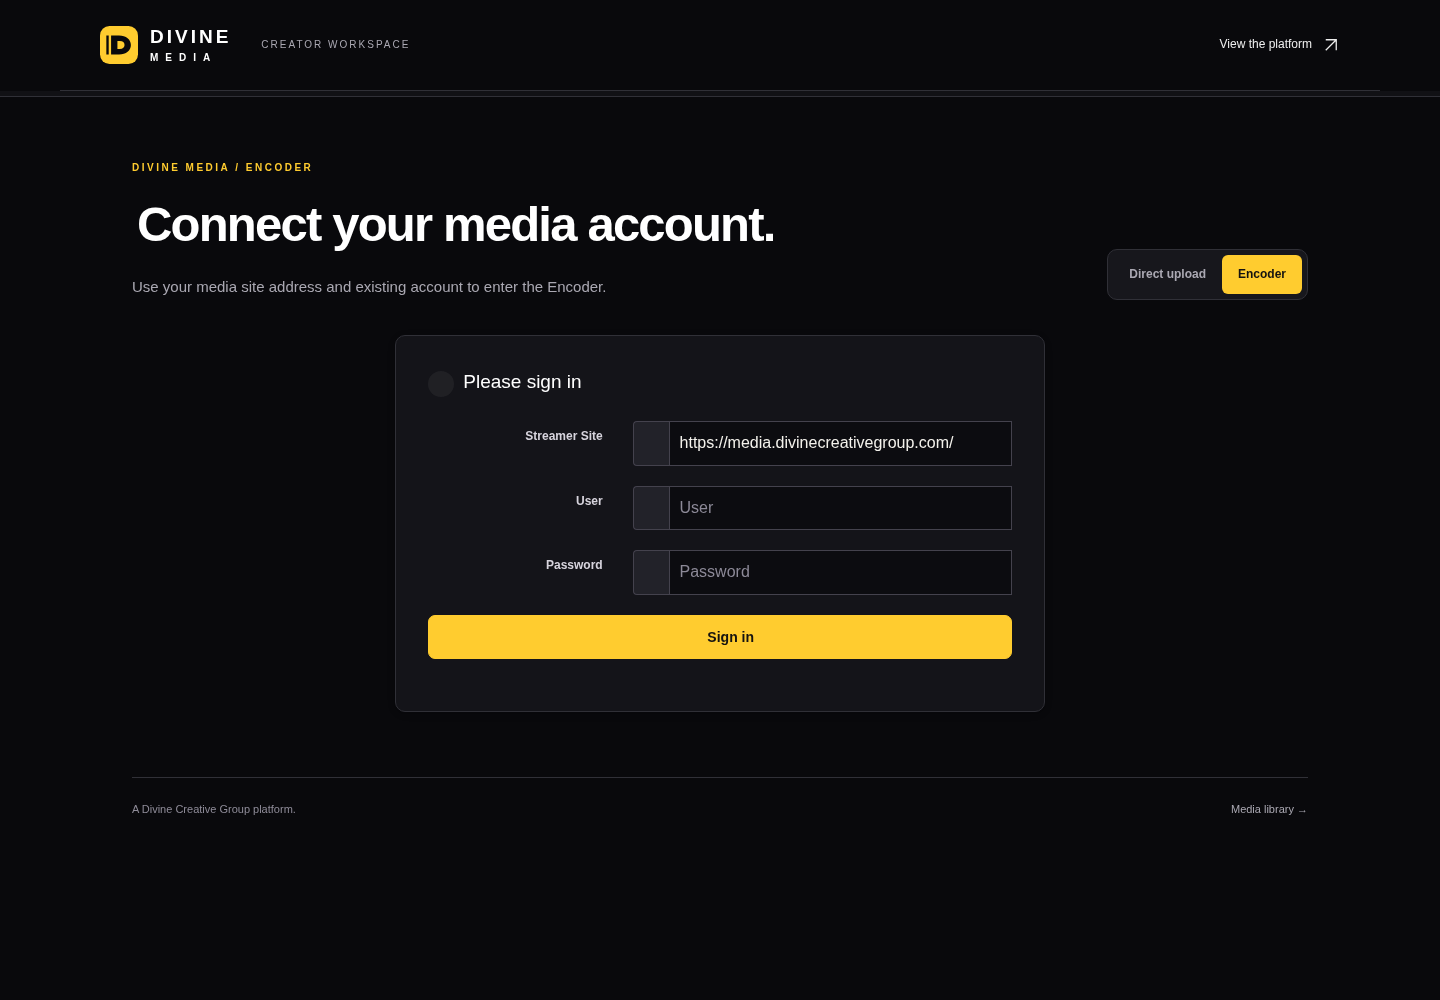
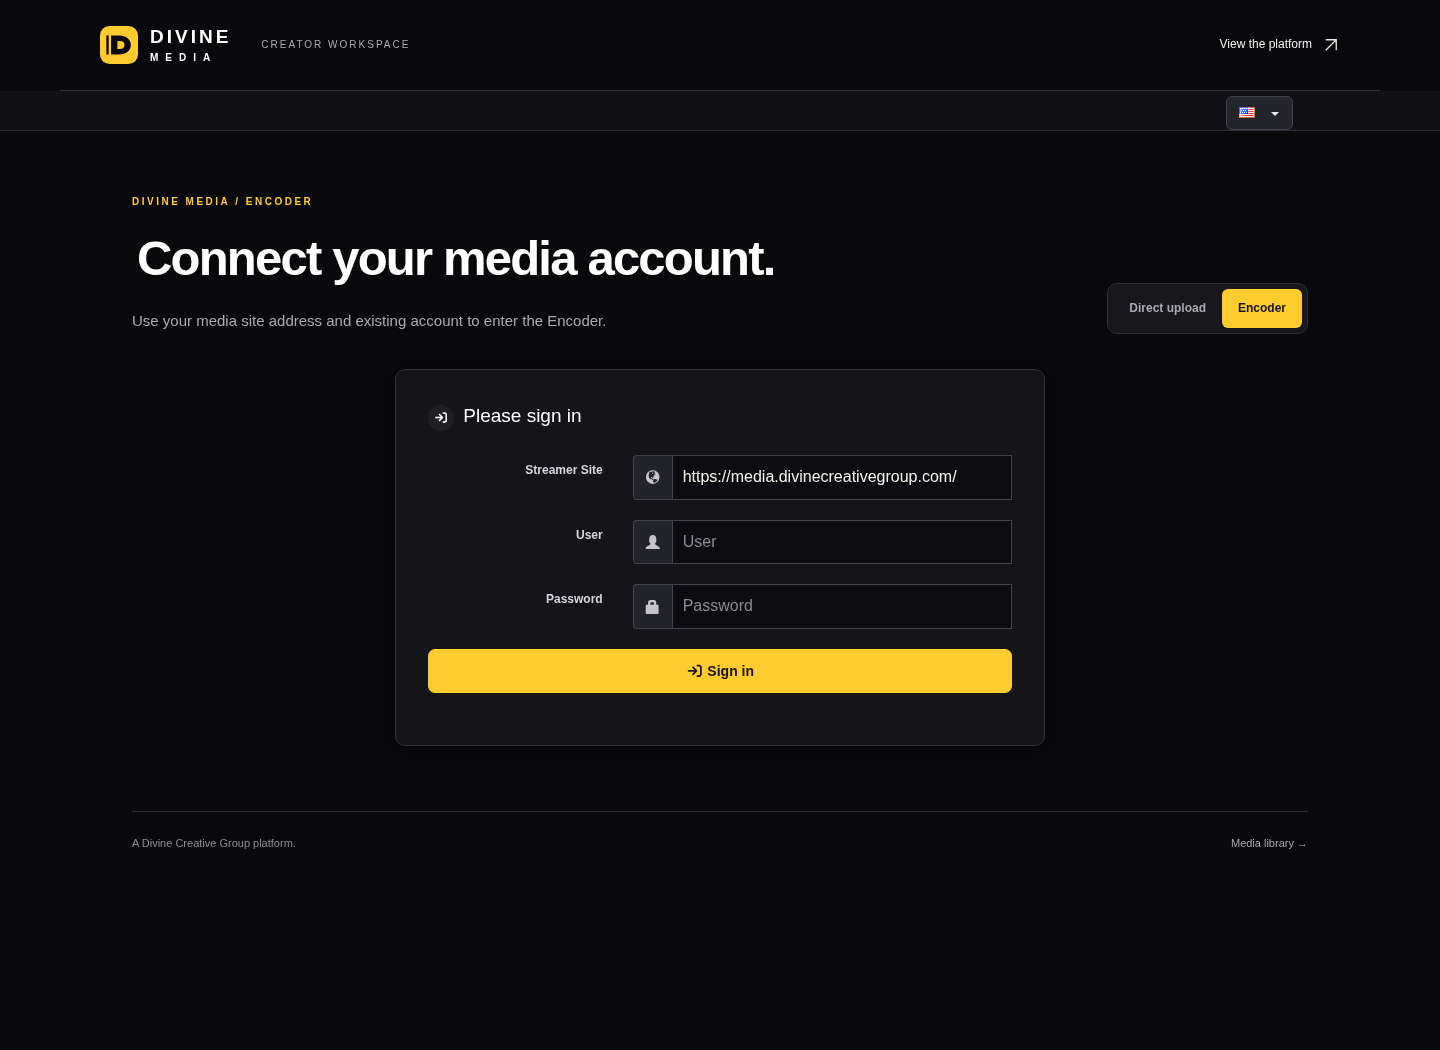
docs: record creator UI deployment and verified previews

diff --git a/docs/DIVINE-MEDIA-CREATOR.md b/docs/DIVINE-MEDIA-CREATOR.md
@@ -33,7 +33,7 @@ Rollback checks installed file hashes and refuses to overwrite later changes. As
 
 ## Design previews
 
-The Encoder preview uses the public connection form with native styles. Direct Upload previews use a representative form fixture pending isolated authenticated rendering. These previews are design evidence, not proof of successful media processing.
+The Encoder preview uses the public connection form with native styles. Direct Upload previews use the sanitized native form rendered by an authenticated creator in the isolated restore, with a representative guidance sidebar. These previews are design evidence, not proof of successful media processing.
 
 | Direct upload | Encoder connection |
 | --- | --- |
@@ -43,3 +43,23 @@ The Encoder preview uses the public connection form with native styles. Direct U
 ## Validation
 
 Local browser checks cover both pages at 1440px and 390px, horizontal overflow, original form identity, retained submit listeners and native input IDs. All network traffic is intercepted; no production upload is submitted. Installer tests cover exact rollback, restrictive umask, source leases and refusal to destroy later changes. The production direct-upload script also passes a browser check with mocked transport: browse triggers the existing input, file addition submits once, progress reaches 50%, cancellation aborts, and failure retains its error state. Actual upload/encoding jobs are excluded from visual validation.
+
+The isolated restored runtime passes PHP lint, the guest Encoder connection form, an authenticated native media uploader, and Encoder upload/settings/tabs rendered with a temporary signed-in fixture. The fixture and test account exist only in the clone, which has an internal network and no processing startup. Handler hashes remain unchanged, rollback/reapply passes, and all scratch containers/network/files are removed. This verifies rendering and installation; it does not verify a real Encoder sign-in or processing job. See [stage evidence](CREATOR-STAGE-VERIFICATION.json).
+
+## Signed-in Encoder preview
+
+The isolated signed-in view uses sanitized server-rendered controls, with account values and executable content removed. It verifies the shared layout at desktop and mobile sizes; production authentication and job submission are not exercised.
+
+![Encoder workspace desktop](previews/creator-encoder-workspace-1440.png)
+
+![Encoder workspace mobile](previews/creator-encoder-workspace-390.png)
+
+## Deployment — 2026-11-07
+
+Live source commit: `61f96e4c30ae30cb8305d01b652b5d65313f2309`, release `0b8df6f2022d`. Installed from the feature branch without merging either the integration or production branch.
+
+Public checks pass for the entrance, login, native library, audio/video filters, embed and Encoder routes. Guests at `/upload` retain the native 302 login redirect. The Encoder connection form and all three public theme assets return 200. Seven native/routing files and all five entrance assets retain their hashes; the queue is unchanged, the catalog remains 16 records, all 52 original media hashes match, and MP3/MP4 range requests return 206. Existing containers remain healthy without restarts.
+
+Rollback snapshot: `/srv/divinemedia/backups/creator-20261107T171602Z-325e71`. See [live evidence](CREATOR-LIVE-VERIFICATION.json). No production upload, real Encoder sign-in, or processing job was performed.
+
+Final public connection and sanitized signed-in Encoder browser checks pass at 320, 390, 768 and 1440 pixels, without page overflow. The signed-in upload and queue panels share the available desktop width and stack on smaller screens; native action labels remain readable. See [browser evidence](CREATOR-BROWSER-VERIFICATION.json).
